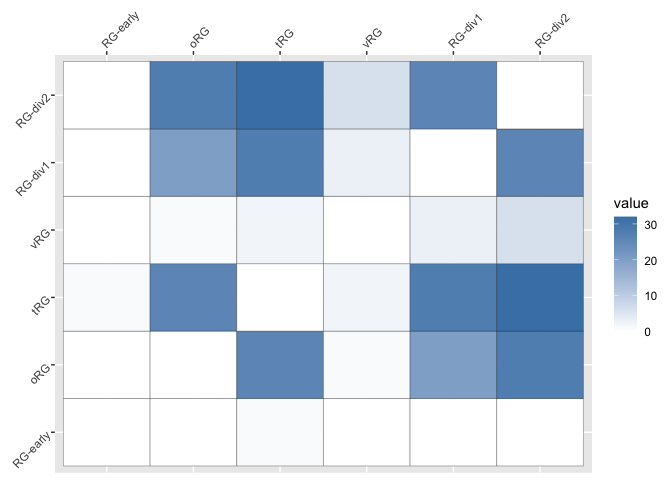
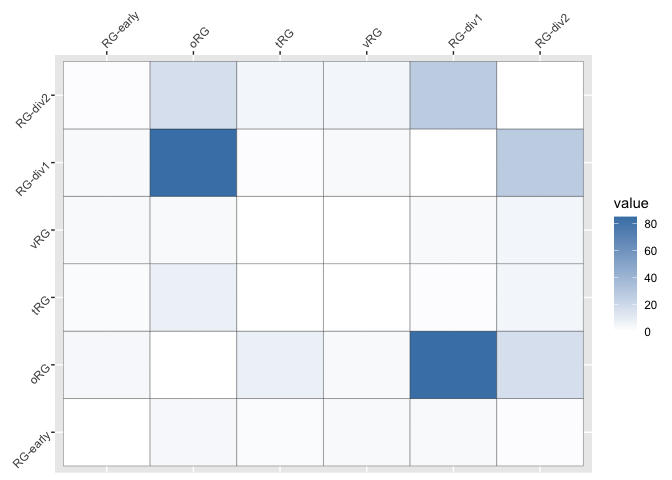
Update vignettes

diff --git a/examples/CellWalkR_Vignette.md b/examples/CellWalkR_Vignette.md
@@ -1,18 +1,18 @@
 CellWalkR Vignette
 ================
 Pawel F. Przytycki
-2020-09-16
+2021-01-26
 
 Getting Started
 ---------------
 
-CellWalkR is an R package implementing the CellWalker method for combining scATAC-seq data with labels and other epigenetic data. This vignette shows an example of running CellWalkR on a small set of scATAC-seq data to generate a cellWalk object which can then be used to assign labels to cells as well as cell-type specific labels to bulk data.
+CellWalkR is an R package implementing the CellWalker method for combining scATAC-seq data with labels and other epigenetic data (see [paper](https://www.biorxiv.org/content/10.1101/847657v2) for details). This vignette shows an example of running CellWalkR on a small set of scATAC-seq data to generate a cellWalk object which can then be used to assign labels to cells as well as cell-type specific labels to bulk data.
 
 ``` r
 library(CellWalkR)
 ```
 
-First, load scATAC-seq data in the form of a cell-by-peak matrix and load the corresponding peaks into a GRanges object. **Please note:** all data needed to recreate this vignette locally should already loaded so read commands can be skipped. They are included as an example for how new data could be loaded. If working with a SnapATAC object, a cell-by-peak matrix should be stored in @pmat.
+First, load scATAC-seq data in the form of a cell-by-peak matrix and load the corresponding peaks into a GRanges object. CellWalkR can also take SnapATAC, ArchR, or Cicero data as input. See [additional vignette](Other_Data_Vignette.md) for how to load these data types.
 
 ``` r
 pathToMat <- system.file("extdata", "SamplePeakMat.mtx", package = "CellWalkR")
@@ -21,7 +21,7 @@ pathToPeaks <- system.file("extdata", "SamplePeaks.txt", package = "CellWalkR")
 peaks <- as(data.table::fread(pathToPeaks, header = FALSE)$V1, "GRanges")
 ```
 
-Next, we compute cell-to-cell similarity in order to build edges in the cell-to-cell portion of the graph. If working with a SnapATAC object, Jaccard similarity is stored in @jmat.
+Next, we compute cell-to-cell similarity in order to build edges in the cell-to-cell portion of the graph.
 
 ``` r
 cellEdges <- computeCellSim(ATACMat, method="Jaccard")
@@ -43,6 +43,8 @@ cellEdges[1:5,1:5]
 In order to generate label-to-cell edges, we need to define which genomic regions correspond to which genes. These could be promoters, gene bodies, or any other definition. If a specific set of regions associated with genes isn't already known, the getRegions() function can be used to generate a mapping. However this will require installing packages for genomic annotaions (GenomicFeatures and a TxDb object). We'll use the Hg38 in this example.
 
 ``` r
+install.packages("BiocManager")
+BiocManager::install(version = "3.10")
 BiocManager::install("GenomicFeatures")
 BiocManager::install("TxDb.Hsapiens.UCSC.hg38.knownGene")
 ```
@@ -53,7 +55,7 @@ Now we can generate regions, in this case using full gene bodies.
 regions <- getRegions(geneBody = TRUE, genome = "hg38", names = "Entrez")
 ```
 
-regions is a GRanges object with a gene\_id field. This gene\_id field needs to match the genes (or other identifiers) in the labeling data.
+regions is a GRanges object with a gene\_id field. **This gene\_id field needs to match the genes (or other identifiers) in the labeling data**.
 
 ``` r
 head(regions)
@@ -70,7 +72,7 @@ head(regions)
 #>   seqinfo: 595 sequences (1 circular) from hg38 genome
 ```
 
-Now we can load our first set of labeling data. If no labeling data is available, can run findMarkers() on a set of scRNA-seq data.
+Now we can load our first set of labeling data. If no labeling data is available, findMarkers() can be run on a set of scRNA-seq data.
 
 ``` r
 pathToLabels <- system.file("extdata", "SampleMarkers1.txt", package = "CellWalkR")
@@ -96,18 +98,18 @@ We then need to map between this data and the peaks in the scATAC-seq data.
 ATACGenePeak <- mapPeaksToGenes(labelGenes, ATACMat, peaks, regions)
 ```
 
-With this mapping we can compute label-to-cell edges, a matrix where the number of rows is the number of labels and the number of columns is the number of cells.
+With this mapping we can compute label-to-cell edges, a matrix where the number of columns is the number of labels and the number of rows is the number of cells.
 
 ``` r
 labelEdges <- computeLabelEdges(labelGenes, ATACMat, ATACGenePeak)
 head(labelEdges)
-#>      RG-early        oRG         tRG vRG     RG-div1    RG-div2
-#> [1,]        0 0.02591189 0.025962569   0 0.040257391 0.01894717
-#> [2,]        0 0.01897995 0.017158561   0 0.022360435 0.02047899
-#> [3,]        0 0.02585844 0.015839112   0 0.019537577 0.02276763
-#> [4,]        0 0.01583931 0.003441275   0 0.002901203 0.01882845
-#> [5,]        0 0.01466549 0.020814822   0 0.019853461 0.03259348
-#> [6,]        0 0.02243765 0.011575348   0 0.006914287 0.01302038
+#>      RG-early         oRG tRG vRG     RG-div1     RG-div2
+#> [1,]        0 0.000000000   0   0 0.000000000 0.000000000
+#> [2,]        0 0.003770718   0   0 0.004350677 0.003566537
+#> [3,]        0 0.004645493   0   0 0.009579770 0.000000000
+#> [4,]        0 0.011335104   0   0 0.008159736 0.000000000
+#> [5,]        0 0.008066843   0   0 0.005934669 0.000000000
+#> [6,]        0 0.000000000   0   0 0.015706707 0.000000000
 ```
 
 Tuning Label Edges
@@ -128,12 +130,12 @@ We can see which parameter had the highest cell homogeneity:
 ``` r
 head(edgeWeights[order(edgeWeights$cellHomogeneity, decreasing = TRUE),])
 #>    Var1 cellHomogeneity
-#> 7 1e+07      0.08080729
-#> 6 1e+06      0.05416757
-#> 5 1e+05      0.05411512
-#> 4 1e+04      0.04437068
-#> 3 1e+03     -0.01519351
-#> 2 1e+02     -0.23014493
+#> 7 1e+07       1.3175235
+#> 6 1e+06       1.2950706
+#> 5 1e+05       1.2623739
+#> 4 1e+04       0.6141855
+#> 3 1e+03       0.1590979
+#> 2 1e+02      -0.1880981
 ```
 
 And can generate a cellWalk object with this parameter. This object stores the final influence matrix and can be used for downstream analysis.
@@ -171,8 +173,8 @@ filterWeights <- tuneFilterWeights(cellEdges,
                                   sampleDepth = 1000)
 filterWeights
 #>   Var1 cellHomogeneity
-#> 1    0      0.06987248
-#> 2    1      0.08754723
+#> 1    0        1.313830
+#> 2    1        1.314423
 ```
 
 We see that adding this filter improves performance. We can make a new cellWalk object using this filter:
@@ -195,14 +197,16 @@ cellWalk <- walkCells(cellEdges,
 Downstream Analysis
 -------------------
 
-Once we have created a cellWalk object, we can use it for downstream analysis. Most directly, we can look at what labels are the most strongly linked to each cell. This is based on the amount of label-to-cell influence in the cell walk. Cell labeling can be used for numerous further downstream analyses such as cell-type specific peak calling.
+Once we have created a cellWalk object, we can use it for downstream analysis.
+
+Most directly, we can look at what labels are the most strongly linked to each cell. This is based on the maxiumum amount of label-to-cell influence in the cell walk. Cell labeling can be used for numerous further downstream analyses such as cell-type specific peak calling.
 
 ``` r
 head(cellWalk$cellLabels)
-#> [1] "oRG"     "tRG"     "tRG"     "oRG"     "tRG"     "RG-div1"
+#> [1] "vRG"     "RG-div2" "RG-div1" "oRG"     "oRG"     "RG-div1"
 ```
 
-We can dig further into cell labeling by examining how often labels are confused for each other. Plotting requires the packages ggplot2 and reshape2.
+However, in actuality, labels are "fuzzy" meaning each cell actually has a distribution of scores from each label. Thanks to this, we can examine how often labels are confused for each other. The label threshold determines the minimum influence score a cell must get to be considered labeled. Plotting requires the packages ggplot2 and reshape2.
 
 ``` r
 install.packages("ggplot2")
@@ -210,7 +214,7 @@ install.packages("reshape2")
 ```
 
 ``` r
-cellWalk <- findUncertainLabels(cellWalk, plot = TRUE)
+cellWalk <- findUncertainLabels(cellWalk, labelThreshold = 0, plot = TRUE)
 ```
 
 ![](CellWalkR_Vignette_files/figure-markdown_github/downstream-uncertainty-1.png)
@@ -218,12 +222,40 @@ cellWalk <- findUncertainLabels(cellWalk, plot = TRUE)
 We can also directly examine label similarity by considering label-to-label influence.
 
 ``` r
-cellWalk <- clusterLabels(cellWalk, plot = TRUE)
+cellWalk <- clusterLabels(cellWalk,  plot = TRUE)
 ```
 
 ![](CellWalkR_Vignette_files/figure-markdown_github/downstream-labelLabels-1.png)
 
     #> NULL
+
+Two-dimensional embeddings of cells can be a very helpful tool for understanding cell diversity. We can directly embed cell-to-cell influence scores. Importantly, this portion of the influence matrix is not used in establishing the labeling of cells. Thus this can serve as distinct way to explore how labels were distributed accross cells. Because of this, unlike with most scATAC-seq analysis pipelines, clusters observed in this embedding may not directly correspond to labels. This can help understand cell diversity, as well as assist in identifying rare cell types. In addition to ggplot2, embedding also requires the package Rtsne.
+
+``` r
+install.packages("Rtsne")
+```
+
+``` r
+plotCells(cellWalk, labelThreshold = 0, seed = 1)
+```
+
+![](CellWalkR_Vignette_files/figure-markdown_github/downstream-plotCellsLabels-1.png)
+
+It is also possible to plot how strongly a single label influences each cell in the embedding.
+
+``` r
+plotCells(cellWalk, cellTypes = c("RG-div2"), seed = 1)
+```
+
+![](CellWalkR_Vignette_files/figure-markdown_github/downstream-plotCellsInf-1.png)
+
+Furthermore, to analyze rare cell types, it can be helpful to only plot a subset of of all labels.
+
+``` r
+plotCells(cellWalk, cellTypes = c("RG-early","tRG","vRG"), labelThreshold = 0, seed = 1)
+```
+
+![](CellWalkR_Vignette_files/figure-markdown_github/downstream-plotCellsRare-1.png)
 
 A very powerful use for the cell walk is mapping data to labels via cell-to-label influence. For example, we can map enhancers to cell types.
 
@@ -240,7 +272,7 @@ mappedLabel <- labelBulk(cellWalk,
                         ATACMat, 
                         peaks)
 mappedLabel
-#>  [1] "vRG"      "RG-early" "RG-early" "RG-early" "RG-early" "oRG"     
+#>  [1] "RG-div1"  "RG-early" "RG-early" "RG-early" "RG-early" "RG-div1" 
 #>  [7] "RG-early" "RG-early" "RG-early" "RG-early"
 ```
 
@@ -269,12 +301,12 @@ edgeWeightsB <- tuneEdgeWeights(cellEdges,
                                sampleDepth = 1000)
 head(edgeWeightsB[order(edgeWeightsB$cellHomogeneity, decreasing = TRUE),])
 #>     Var1  Var2 cellHomogeneity
-#> 9  1e+04 1e+06       0.5011993
-#> 13 1e+04 1e+07       0.4894711
-#> 14 1e+05 1e+07       0.4518762
-#> 10 1e+05 1e+06       0.4264239
-#> 15 1e+06 1e+07       0.4203451
-#> 16 1e+07 1e+07       0.3927239
+#> 14 1e+05 1e+07        2.441033
+#> 8  1e+07 1e+05        2.374430
+#> 13 1e+04 1e+07        2.162689
+#> 12 1e+07 1e+06        2.139192
+#> 9  1e+04 1e+06        2.082448
+#> 7  1e+06 1e+05        1.871565
 ```
 
 We can then compute a new cell walk using the list of edges and a vector of optimal weights.

diff --git a/examples/Other_Data_Vignette.md b/examples/Other_Data_Vignette.md
@@ -1,0 +1,45 @@
+Load Other Data
+================
+Pawel F. Przytycki
+2021-01-26
+
+Cell edges and label edges can be generated directly from a SnapATAC object, an ArchR project, or from Cicero data.
+
+SnapATAC
+--------
+
+If working with SnapATAC, the generated SnapATAC object can be used to generate cell and label edges. The user can specify whether to use the "bmat" or "gmat" for analysis.
+
+``` r
+cellEdges <- computeCellSim(snap, method="Jaccard")
+ATACGenePeak <- mapSnapATACToGenes(labelGenes, snap, whichMat = "bmat", regions)
+labelEdges <- computeLabelEdges(labelGenes, snap, ATACGenePeak)
+```
+
+These cell and label edges can then be used as in the [CellWalkR vignette](CellWalkR_Vignette.md).
+
+ArchR
+-----
+
+If working with ArchR, the generated ArchR project can be used to generate cell and label edges. The user can specify whether to use the "TileMatrix" or "GeneScoreMatrix" for analysis.
+
+``` r
+cellEdges <- computeCellSim(ArchRproj, method="Jaccard")
+ATACGenePeak <- mapArchRToGenes(labelGenes, ArchRproj, whichMat = "TileMatrix", regions)
+labelEdges <- computeLabelEdges(labelGenes, ArchRproj, ATACGenePeak)
+```
+
+These cell and label edges can then be used as in the [CellWalkR vignette](CellWalkR_Vignette.md).
+
+Cicero
+------
+
+If working with Cicero, two different objects are needed, both of which are part of standard Cicero analysis. First, "cicero\_data" which is a data.frame with peak ids in the first column, cell barcodes in the second column, and read counts in the third, is used fo compute cell edges. Second, the Cicero outputted "cicero\_gene\_activities" Matrix is used to compute label edges.
+
+``` r
+cellEdges <- computeCellSim(cicero_data, method="Jaccard")
+ATACGenePeak <- mapCiceroToGenes(labelGenes, cicero_gene_activities,)
+labelEdges <- computeLabelEdges(labelGenes, cicero_gene_activities, ATACGenePeak)
+```
+
+These cell and label edges can then be used as in the [CellWalkR vignette](CellWalkR_Vignette.md).
